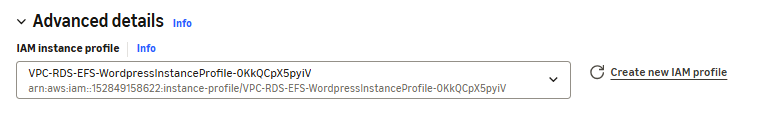
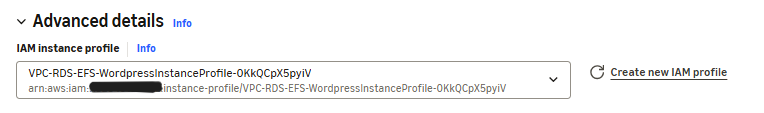
Add additional screenshots and update guide

Changed region(s): [[0.0903, 0.7168, 0.2107, 0.823]]

diff --git a/deployment-guide.md b/deployment-guide.md
@@ -642,7 +642,24 @@ Our AMI is configured in a way in which WordPress relies on WP_HOME and WP_SITEU
 
 Since we’ve added an ALB to our infrastructure and our instances currently sit in a private subnet instead of a public one, we need to fix the WP configurations accordingly.
 
-1.  Install WP-CLI to update any reference of the public IP address of the EC2 created earlier to the ALB DNS name (or our custom domain that points to the LB if we were using one).
+1.  Install WP-CLI in order to use wp search-replace command and update any reference of the public IP address of the EC2 created earlier to the ALB DNS name (or our custom domain that points to the LB if we were using one).
+
+```bash
+sudo chmod +x wp-cli.phar
+sudo mv wp-cli.phar /usr/local/bin/wp
+```
+Verify that the installation was successful:
+```bash
+wp --info
+```
+<img src="screenshots/wp-cli-install.png"/>
+
+Since ssm-user doesn't have permissions on the wp files (because we've set user:group as root:apache) we will run the below command as Apache to verify that WordPress is detected:
+```bash
+sudo -u apache wp core is-installed --path=/var/www/html
+```
+
+Then we will run our search-replace command (as Apache again) with --dry-run to check the number of replacements:
 ```bash
 sudo -u apache wp search-replace \
 'http://<OLD_EC2_PUBLIC_IP> ' \
@@ -652,12 +669,35 @@ sudo -u apache wp search-replace \
 --dry-run \
 --path=/var/www/html
 ```
-Check the wp-config.php file and ensure WP_HOME and WP_SITEURL point to the Web-ALB:
+We can see 7 replacements can be made to the hardcoded old Public IP address:
+<img src="screenshots/search-replace.png"/>
+
+We will run the same command again, but this time without the --dry-run in order to execute the replacements:
+
+<img src="screenshots/search-replace-made.png"/>
+
+WordPress stores its public URL in the database, in the wp_options table:
+- siteurl: Where WordPress core is installed.
+- home: The public address visitors use to access our website.
+
+To ensure WordPress always uses our ALB DNS, We want to define these two values in the wp-config.php file with our public-facing ALB DNS name, because as long as they're not defined there, WordPress uses the database values instead.
+
+To edit the wp-config.php file:
+```bash
+cd /var/www/html
+sudo nano wp-config.php
+```
+
+We want to add these two custom values where indicated in the file:
+
 ```bash
 define('WP_HOME', 'http://<ALB_DNS_NAME>');
-
 define('WP_SITEURL', 'http://<ALB_DNS_NAME>');
 ```
+<img src="screenshots/wp_home_siturl.png"/>
+
+Once these changes are made, we can terminate the session and exit the session manager instance connection.
+
 Then, the same way we created an image from our EC2 instance earlier, we bake a new AMI of the current instance to include the above fixes.
 
 <img src="screenshots/image36.png" style="width:5.76806in;height:0.65625in" />
@@ -672,7 +712,11 @@ To ensure that all of our EC2 instances use the new AMI, we will start an instan
 
 <img src="screenshots/image39.png" style="width:5.76806in;height:3.34167in" />
 
-After the instance refresh is complete, we can navigate to the DNS name of our ELB to make sure our blog and media uploads are still available:
+After the instance refresh is complete, we can verify the old instance is terminated and a new one is up and running through our console:
+
+<img src="screenshots/refresh-complete.png" />
+
+Now we navigate to the DNS name of our ELB through our web browser to make sure our blog post and media uploads are still available as expected:
 
 <img src="screenshots/image40.png" style="width:5.76806in;height:3.39236in" />
 
